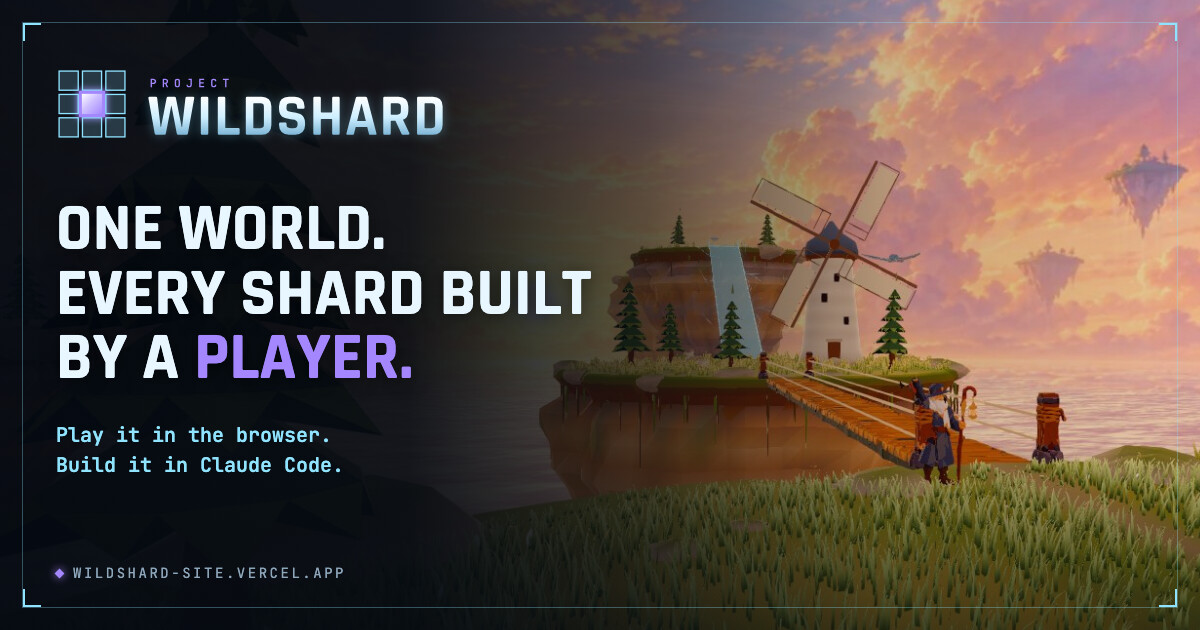
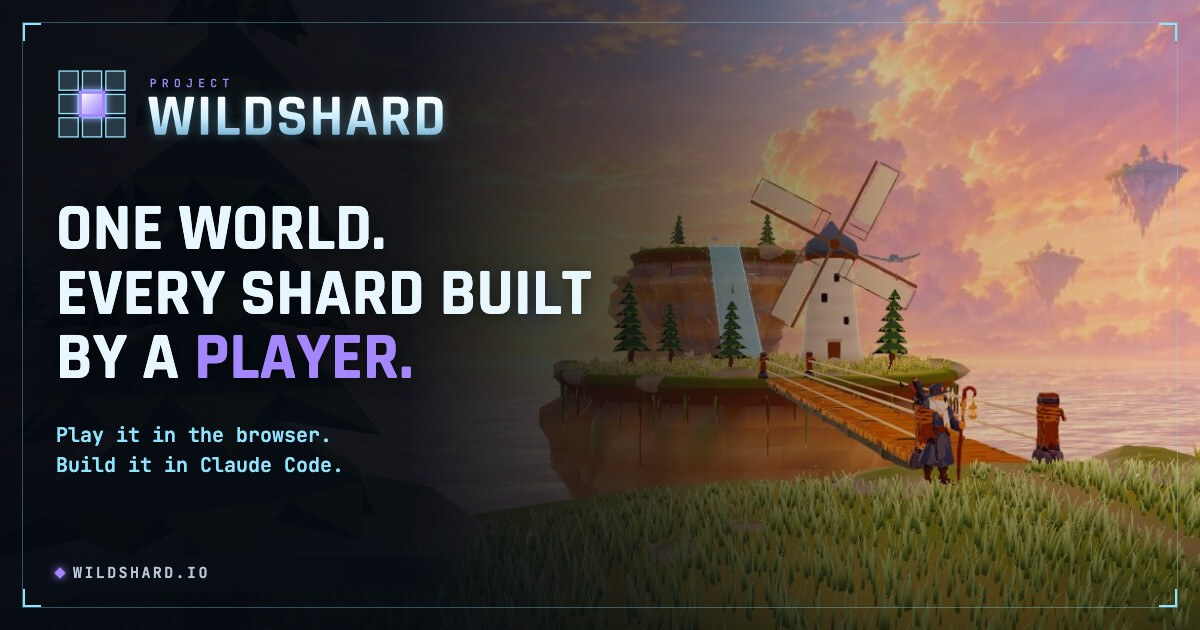
MARKETING-SITE MS9: wildshard.io serves the site, wildshard.dev redirects to it; the site, share card, sitemap, press kit and waitlist API use wildshard.io (E465)
Devlog: Project Wildshard has its own address: wildshard.io.

Claude-Session: https://claude.ai/code/session_01WDQS4KJMspuEQ6kHGSrLAg

diff --git a/site/index.html b/site/index.html
@@ -8,19 +8,19 @@
 <meta name="description" content="One world. Every shard built by a player. Play it in the browser. Build it in Claude Code.">
 <link rel="icon" href="/favicon.svg" type="image/svg+xml">
 <link rel="apple-touch-icon" href="/apple-touch-icon.png">
-<link rel="canonical" href="https://wildshard-site.vercel.app/">
+<link rel="canonical" href="https://wildshard.io/">
 <meta property="og:type" content="website">
 <meta property="og:site_name" content="Project Wildshard">
 <meta property="og:title" content="Project Wildshard">
 <meta property="og:description" content="One world. Every shard built by a player. Play it in the browser. Build it in Claude Code.">
-<meta property="og:url" content="https://wildshard-site.vercel.app/">
-<meta property="og:image" content="https://wildshard-site.vercel.app/og.jpg">
+<meta property="og:url" content="https://wildshard.io/">
+<meta property="og:image" content="https://wildshard.io/og.jpg">
 <meta property="og:image:width" content="1200">
 <meta property="og:image:height" content="630">
 <meta name="twitter:card" content="summary_large_image">
 <meta name="twitter:title" content="Project Wildshard">
 <meta name="twitter:description" content="One world. Every shard built by a player. Play it in the browser. Build it in Claude Code.">
-<meta name="twitter:image" content="https://wildshard-site.vercel.app/og.jpg">
+<meta name="twitter:image" content="https://wildshard.io/og.jpg">
 <link rel="preload" href="/fonts/rajdhani-700.woff2" as="font" type="font/woff2" crossorigin>
 <link rel="preload" href="/fonts/jetbrainsmono.woff2" as="font" type="font/woff2" crossorigin>
 <style>

diff --git a/api/waitlist.ts b/api/waitlist.ts
@@ -5,7 +5,7 @@
  *   GET  (x-review-password header)          → { entries: [...] }   every signup, for the admin site's Waitlist tab
  *
  * The POST is public: the site (`site/index.html`) calls it cross-origin, so CORS allows the site's origins only
- * (`wildshard-site.vercel.app` plus any in `WAITLIST_ORIGINS`, comma-separated, for the domains Jake buys). A claimed
+ * (`wildshard.io` and `wildshard-site.vercel.app`, plus any in `WAITLIST_ORIGINS`, comma-separated). A claimed
  * cell is a wish, not a promise: any grid cell but the fixed centre. `website` is a honeypot a person never fills.
  * Rate limit 10 / min per IP per warm instance. The GET reuses the review inbox's password (`REVIEW_PASSWORD`).
  */
@@ -16,7 +16,7 @@ export const MAX_BODY_BYTES = 8 * 1024;
 export const MAX_BUILD_CHARS = 500;
 export const RATE_LIMIT_PER_MIN = 10;
 const PREFIX = 'waitlist/';
-const SITE_ORIGINS = ['https://wildshard-site.vercel.app'];
+const SITE_ORIGINS = ['https://wildshard.io', 'https://wildshard-site.vercel.app'];
 /** the admin site reads the list (GET, with the review password) */
 const ADMIN_ORIGINS = new Set(['https://wildshard-admin.vercel.app']);
 const EMAIL_RE = /^[^\s@]{1,64}@[^\s@]{1,253}\.[^\s@]{2,}$/u;

diff --git a/docs/plans/MARKETING-SITE.md b/docs/plans/MARKETING-SITE.md
@@ -1,6 +1,6 @@
 # Plan: MARKETING-SITE — the home of Project Wildshard (E465)
 
-**State:** `in progress` 2026-10-09 — **built and live at https://wildshard-site.vercel.app** (public), phone and desktop: the story in C's terminal look in A's Lattice colours with B's map, violet, two-column desktop, the Cell logo; every section plus Jake's yes-ideas (motion, one sentence → a shard, the generated road and devlog, the real shardfile, claim a cell, founding authors, coming worlds, FAQ, press kit, install); the waitlist (`/api/waitlist`) and admin's Waitlist tab; Lighthouse mobile 99–100; it redeploys itself (`site-deploy.yml`). **Three rows wait on Jake:** MS1 read the site ([review](../reviews/marketing-site.md)), MS7 the Discord invite link, MS9 the domain.
+**State:** `in progress` 2026-10-09 — **built and live at https://wildshard.io** (public; wildshard.dev redirects there), phone and desktop: the story in C's terminal look in A's Lattice colours with B's map, violet, two-column desktop, the Cell logo; every section plus Jake's yes-ideas (motion, one sentence → a shard, the generated road and devlog, the real shardfile, claim a cell, founding authors, coming worlds, FAQ, press kit, install); the waitlist (`/api/waitlist`) and admin's Waitlist tab; Lighthouse mobile 99–100; it redeploys itself (`site-deploy.yml`). **Two rows wait on Jake:** MS1 read the site ([review](../reviews/marketing-site.md)), MS7 the Discord invite link.
 **Reviews:** [marketing-site](../reviews/marketing-site.md)
 
 ## 0. Why
@@ -99,7 +99,7 @@ wildshard`), the door becomes *install the skill*; when the API exists, *request
 | MS6 | ✅ **The road strip** (2026-10-09) — `site/vite.config.ts` fills `<!--gen:road-->` from SHARD-PLATFORM's State line at the built commit (M1 / M2 %, shards at 80/20), and a later milestone turns `planned` when its plan exists; the build fails if the State line stops saying it | the strip matches the plans at the deployed SHA | marketing agent |
 | MS7 | ◐ **Author door** (Q3: all three) — ✅ `api/waitlist.ts` (public POST from the site, password-gated GET for admin) + tests, the site form, the admin site's Waitlist tab (signups + the claim map), the mail link; **open: the Discord** — the button reads "Discord: coming" until Jake sends an invite link (Jake, 2026-10-09) | a test signup reaches the admin site; the Discord invite works | marketing agent (the Discord: Jake) |
 | MS8 | ✅ **Sharing** (2026-10-09) — `site/public/og.jpg` (1200 × 630: the Cell lockup and the tagline over Sky Reach in engine), Open Graph + Twitter card meta, canonical, the favicon and touch icon, `robots.txt`, `sitemap.xml` | the link unfurls with the card | marketing agent |
-| MS9 | **Domain** — Jake picks and buys one or more (he may buy several); the primary serves the site, the rest redirect to it. Unregistered on 2026-10-09 (whois): `wildshard.gg`, `wildshard.io`, `wildshard.game`, `wildshard.net`, `wildshard.org`, `wildshard.co`, `projectwildshard.com`, `playwildshard.com`, `getwildshard.com`, `wildshardgame.com` (likely `.dev` / `.app` / `.world` too: no name servers). `wildshard.com` is taken (registered 2025-02, live). Then attach apex + `www` to `wildshard-site`, DNS at the registrar, HTTPS | the primary domain serves the site and every other one redirects to it | Jake (pick + purchase), marketing agent (attach) |
+| MS9 | ✅ **Domain** (2026-10-09) — Jake bought **wildshard.io** and **wildshard.dev** (Vercel, team raynos-projects, Vercel DNS). `wildshard.io` serves the site, `www.wildshard.io` 308s to it, `wildshard.dev` and `www.wildshard.dev` 307 to it (temporary: .dev becomes the author docs / SDK home later, Jake's pick). The site's canonical, share card, sitemap and press kit say wildshard.io; `/api/waitlist` accepts it. More domains later (Jake: "I'll get extras later") | https://wildshard.io serves the site and every other one redirects to it | Jake (bought), marketing agent (attached) |
 | MS10 | ✅ **Keep it true** (2026-10-09) — the road and the devlog are generated from the plans and the commits (MS6, MS14), and `.github/workflows/site-deploy.yml` redeploys the site on every push that changes `site/` or a plan, and daily for new `Devlog:` trailers. Adding a shard's card stays a `site/index.html` edit | the site redeploys itself when its sources change | marketing agent |
 | MS11 | ✅ **Motion** (2026-10-09) — the trailer (a 21 s seamless cut of the 18 September trailer, title cards removed) autoplays muted below the hero; each shard card fades its ~5 s loop in over the still (phone: when in view; desktop: on hover, since the capture clips are 540 px); all on public Blob via `site/tools/publish-media.ts` → `site/media.json`, inlined at build time | the hero and every card move on the phone; first load stays small before any video | marketing agent |
 | MS12 | ✅ **Play in a new tab** (2026-10-09) — every shard card's *Play ↗* and both Play buttons open the live game in a new tab (its title: the game has no shard deep link that isn't a URL switch) | every card's Play opens the game | marketing agent |

diff --git a/docs/reviews/marketing-site.md b/docs/reviews/marketing-site.md
@@ -1,7 +1,7 @@
 # Project Wildshard — the marketing site
 
 **Status:** `unread` 2026-10-09 — the finished site, phone and desktop: read every section's words and look; your notes become edits to `site/index.html`
-**Link:** https://wildshard-site.vercel.app
+**Link:** https://wildshard.io
 **Plan:** MARKETING-SITE (MS1)
 **Made by:** E465, the marketing agent (wildshard-y)
 
